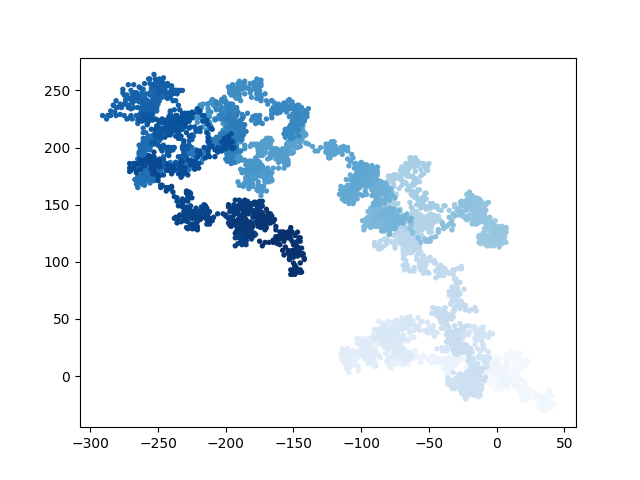
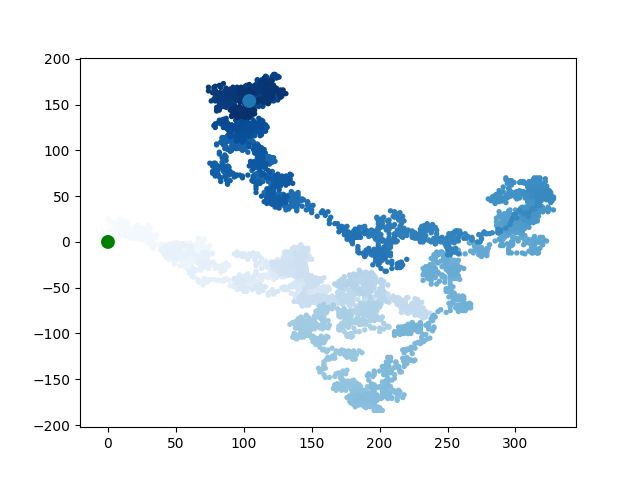
Plotando os pontos de início e de fim (pg 381-382).

diff --git a/capitulo_15-Gerando_dados/rw_visual.py b/capitulo_15-Gerando_dados/rw_visual.py
@@ -4,6 +4,9 @@
 HISTÓRICO
     20211003: João Paulo, março de 2021.
         - Gerando vários passeios aleatórios (pg 379-380).
+
+    20211203: João Paulo, março de 2021.
+        - Plotando os pontos de início e de fim (pg 381-382).
 """
 
 import matplotlib.pyplot as plt
@@ -21,6 +24,10 @@ while True:
     point_numbers = list(range(rw.num_points))
 
     plt.scatter(rw.x_values, rw.y_values, c=point_numbers, cmap=plt.cm.Blues, edgecolor='none', s=15) 
+
+    # Enfatiza o primeiro e o último ponto:
+    plt.scatter(0, 0, c='green', edgecolors='none', s=100)
+    plt.scatter(rw.x_values[-1], rw.y_values[-1], edgecolors='none', s=100)
 
     # Salva os gráficos automaautomatic:
     plt.savefig('random_walk_plot' + str(i) + '.png')
